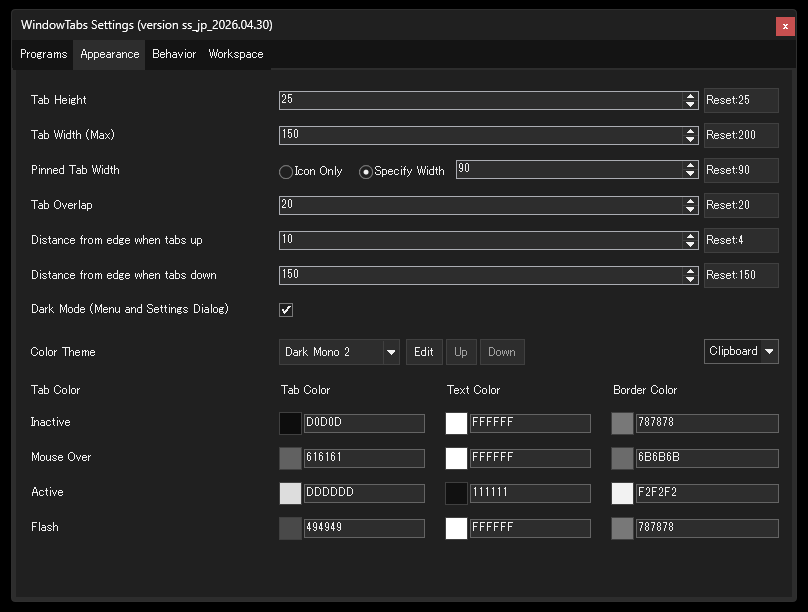
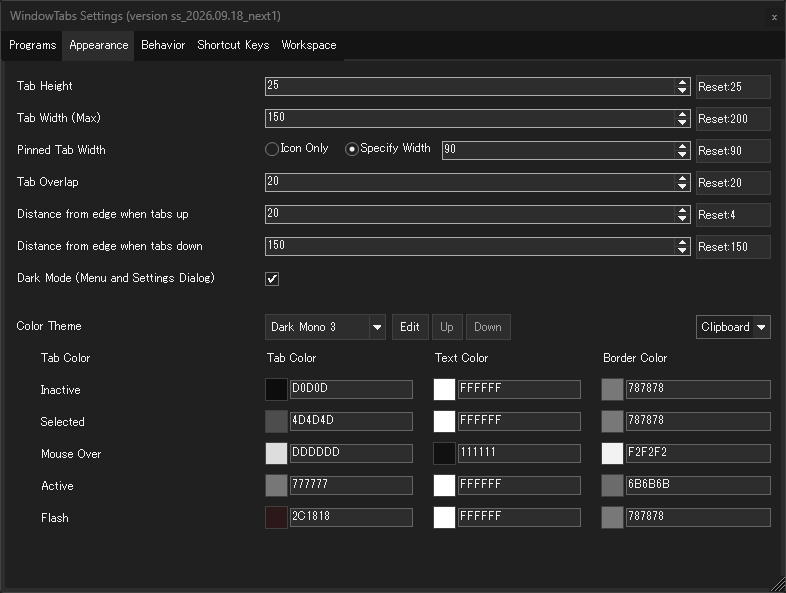
update README

Changed region(s): [[0.0, 0.0, 1.0, 1.0], [0.3664, 0.0607, 0.4275, 0.0911]]

diff --git a/README_Japanese.md b/README_Japanese.md
@@ -377,6 +377,8 @@ leafOfTree 氏も様々な改良を加えたフォークを作成しています
 
 - タブ1～9の選択、前後のタブへの切り替え、新規タブ追加のキーを設定できます。数字キーは Ctrl+1～9・Alt+1～9 または個別指定で、対象ウィンドウの操作中のみ有効です。
 
+![Settings Shortcut Keys](README_Image/SettingsShortcutKeys.png)
+
 ### ワークスペースタブ
 
 - タブグループの配置と、タブの装飾・ピン・名前・寄せを保存・復元できます。

diff --git a/README.md b/README.md
@@ -377,6 +377,8 @@ If you create a nice color theme, please share it at [GitHub Issues](https://git
 
 - Configure keys for selecting tabs 1–9, switching to the next / previous tab, and adding a new tab. Numbered tabs use Ctrl+1–9, Alt+1–9 or individual assignments, and are active only while working in a target window.
 
+![Settings Shortcut Keys](README_Image/SettingsShortcutKeys.png)
+
 ### Workspace Tab
 
 - Save and restore tab group layouts, including tab decorations, pins, names, and alignment.
